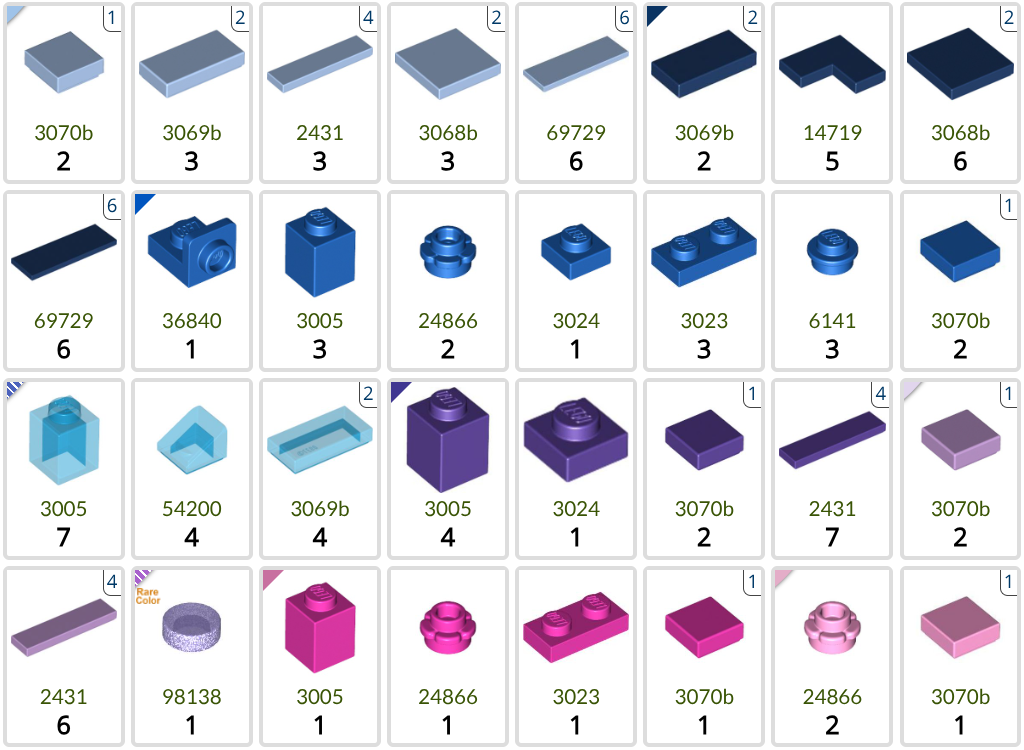
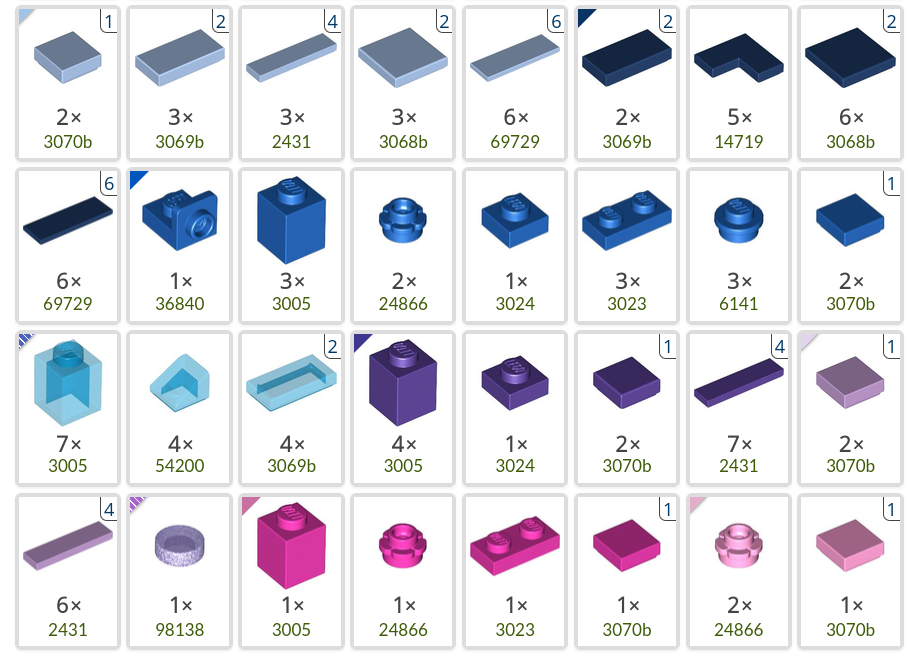
Update documentation

Changed region(s): [[0.0, 0.0, 1.0, 1.0]]

diff --git a/src/popup.html b/src/popup.html
@@ -149,7 +149,7 @@
       <label><input type="checkbox" id="decorate-part-colors"> Add colored corners to part tiles to disambiguate the color</label>
     </div>
     <label><input type="checkbox" id="remove-x-from-part-counts"> Remove the "x" symbol from part counts</label>
-    <label><input type="checkbox" id="consistent-part-images"> Make part images consistent, fix brightness of black parts</label>
+    <label><input type="checkbox" id="consistent-part-images"> Use the old style of part images, fix brightness of black parts</label>
     <label><input type="checkbox" id="always-export-parts"> Allow exporting "parts in common" in the Compare tool</label>
 
     <h3>Part details pages</h3>
